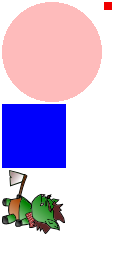
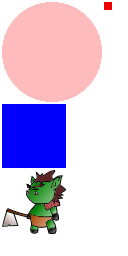
pathfinding and movement speed properties completed

Changed region(s): [[0.0, 0.6562, 0.5312, 0.9375]]

diff --git a/TowerDefense/MonsterObject.m b/TowerDefense/MonsterObject.m
@@ -190,7 +190,7 @@
     CCLOG(@"%@", [_pathArray description]);
 }
 
--(void)moveTowardsGoal
+-(void)moveTowardsGoalWithDeltaTime:(ccTime)dt
 {
     GameScene *currentScene = [[GameManager sharedManager] currentRunningGameScene];
     
@@ -203,19 +203,26 @@
     
     self.nextDestination = [[[self pathArray] objectAtIndex:(_currentPathIndex + 1)] CGPointValue];
     self.nextDestination = [currentScene positionForTileCoord:self.nextDestination];
-            
-    CCAction *moveAction;
-    CGPoint offSet;
-    float distance;
-    float travelTime;
     
-    offSet.x = ABS(self.position.x - self.nextDestination.x);
-    offSet.y = ABS(self.position.y - self.nextDestination.y);
-    distance = sqrt((offSet.x * offSet.x) + (offSet.y * offSet.y));
-    travelTime = (distance / self.movementSpeed);
+    CGPoint offSet;
+    CGPoint travelPoint;
+    float time2Travel;
+    float distance;
         
-    moveAction = [CCSequence actions:[CCMoveTo actionWithDuration:travelTime position:self.nextDestination], [CCCallFunc actionWithTarget:self selector:@selector(incrementPathIndex)], nil];
-    [self runAction:moveAction];
+    offSet.x = self.nextDestination.x - self.position.x;
+    offSet.y = self.nextDestination.y - self.position.y;
+    distance = sqrt((offSet.x * offSet.x) + (offSet.y * offSet.y));
+    time2Travel = [self movementSpeed] / distance;
+    travelPoint.x = offSet.x * time2Travel;
+    travelPoint.y = offSet.y * time2Travel;
+        
+    // Move monster towards player
+    self.position = ccp((self.position.x + (travelPoint.x * dt)), self.position.y + (travelPoint.y * dt) );
+    
+    if ((ABS(offSet.x) <= 2.0) && (ABS(offSet.y) <= 2.0))
+    {
+        _currentPathIndex += 1;
+    }
 }
 
 -(void)incrementPathIndex
@@ -233,7 +240,7 @@
         _monsterState = kMonsterIdle;
         _maxHP = 1;
         _currentHP = 1;
-        _movementSpeed = 25.0;
+        _movementSpeed = 40.0;
         
         _assignedPath = nil;
         _nextDestination = ccp(0,0);
@@ -241,7 +248,6 @@
         _pathArray = [[NSMutableArray alloc] initWithCapacity:0];
         _currentPathIndex = 0;
         [[self texture] setAliasTexParameters];
-
     }
     return self;
 }

diff --git a/TowerDefense/OrcMonster.m b/TowerDefense/OrcMonster.m
@@ -15,6 +15,8 @@
 -(void)updateStateWithDeltaTime:(ccTime)deltaTime andListOfGameObjects:(CCArray*)listOfGameObjects
 {
     [super updateStateWithDeltaTime:deltaTime andListOfGameObjects:listOfGameObjects];
+    
+    // State change checking section
 
     if (self.currentHP <= 0 && (self.monsterState != kMonsterDead))
     {
@@ -26,9 +28,15 @@
         [self changeState:kMonsterIdle];
     }
         
-    if ( ((self.monsterState == kMonsterMoving) || (self.monsterState == kMonsterIdle)) && (![self doneMoving]) && ([self numberOfRunningActions] == 0))
+    if ( (self.monsterState == kMonsterIdle) && (![self doneMoving]) && ([self numberOfRunningActions] == 0))
     {
         [self changeState:kMonsterMoving];
+    }
+    
+    // State Management
+    if (self.monsterState == kMonsterMoving)
+    {
+        [self moveTowardsGoalWithDeltaTime:deltaTime];
     }
 }
 
@@ -44,7 +52,7 @@
         
         case kMonsterMoving:
             CCLOG(@"OrcMonster is starting to move");
-            [self moveTowardsGoal];
+            //[self moveTowardsGoal];
             break;
             
         case kMonsterDead:

diff --git a/TowerDefense/GameScene.m b/TowerDefense/GameScene.m
@@ -230,6 +230,7 @@
         // Setup Sprite Atlas for gameplay layer
         [[CCSpriteFrameCache sharedSpriteFrameCache]addSpriteFramesWithFile:spriteAtlasPlist];
         _sceneSpriteBatchNode = [CCSpriteBatchNode batchNodeWithFile:spriteAtlasPng];
+        [[_sceneSpriteBatchNode texture] setAliasTexParameters];
         [[self tileMap] addChild:_sceneSpriteBatchNode z:100];
         
         // Timer Test code

diff --git a/TowerDefense/AppDelegate.m b/TowerDefense/AppDelegate.m
@@ -85,6 +85,8 @@
     
     // and add the scene to the stack. The director will run it when it automatically when the view is displayed.
     [[CCDirector sharedDirector] setProjection:kCCDirectorProjection2D];
+    [[CCDirector sharedDirector] setDepthTest:NO];
+
     [[GameManager sharedManager] runGameScene:kTitleScreenScene];
 	
 	return YES;

diff --git a/TowerDefense/libs/cocos2d/ccConfig.h b/TowerDefense/libs/cocos2d/ccConfig.h
@@ -158,7 +158,7 @@
  To enable set it to 1. Enabled by default.
  */
 #ifndef CC_SPRITEBATCHNODE_RENDER_SUBPIXEL
-#define CC_SPRITEBATCHNODE_RENDER_SUBPIXEL	1
+#define CC_SPRITEBATCHNODE_RENDER_SUBPIXEL	0
 #endif
 
 /** @def CC_TEXTURE_ATLAS_USE_TRIANGLE_STRIP

diff --git a/TowerDefense/MonsterObject.h b/TowerDefense/MonsterObject.h
@@ -44,6 +44,6 @@
 -(void)findAssignedPath;
 -(BOOL)tileCoordIsMoveable:(CGPoint)coord;
 -(void)createTravelPathArray;
--(void)moveTowardsGoal;
+-(void)moveTowardsGoalWithDeltaTime:(ccTime)dt;
 
 @end
